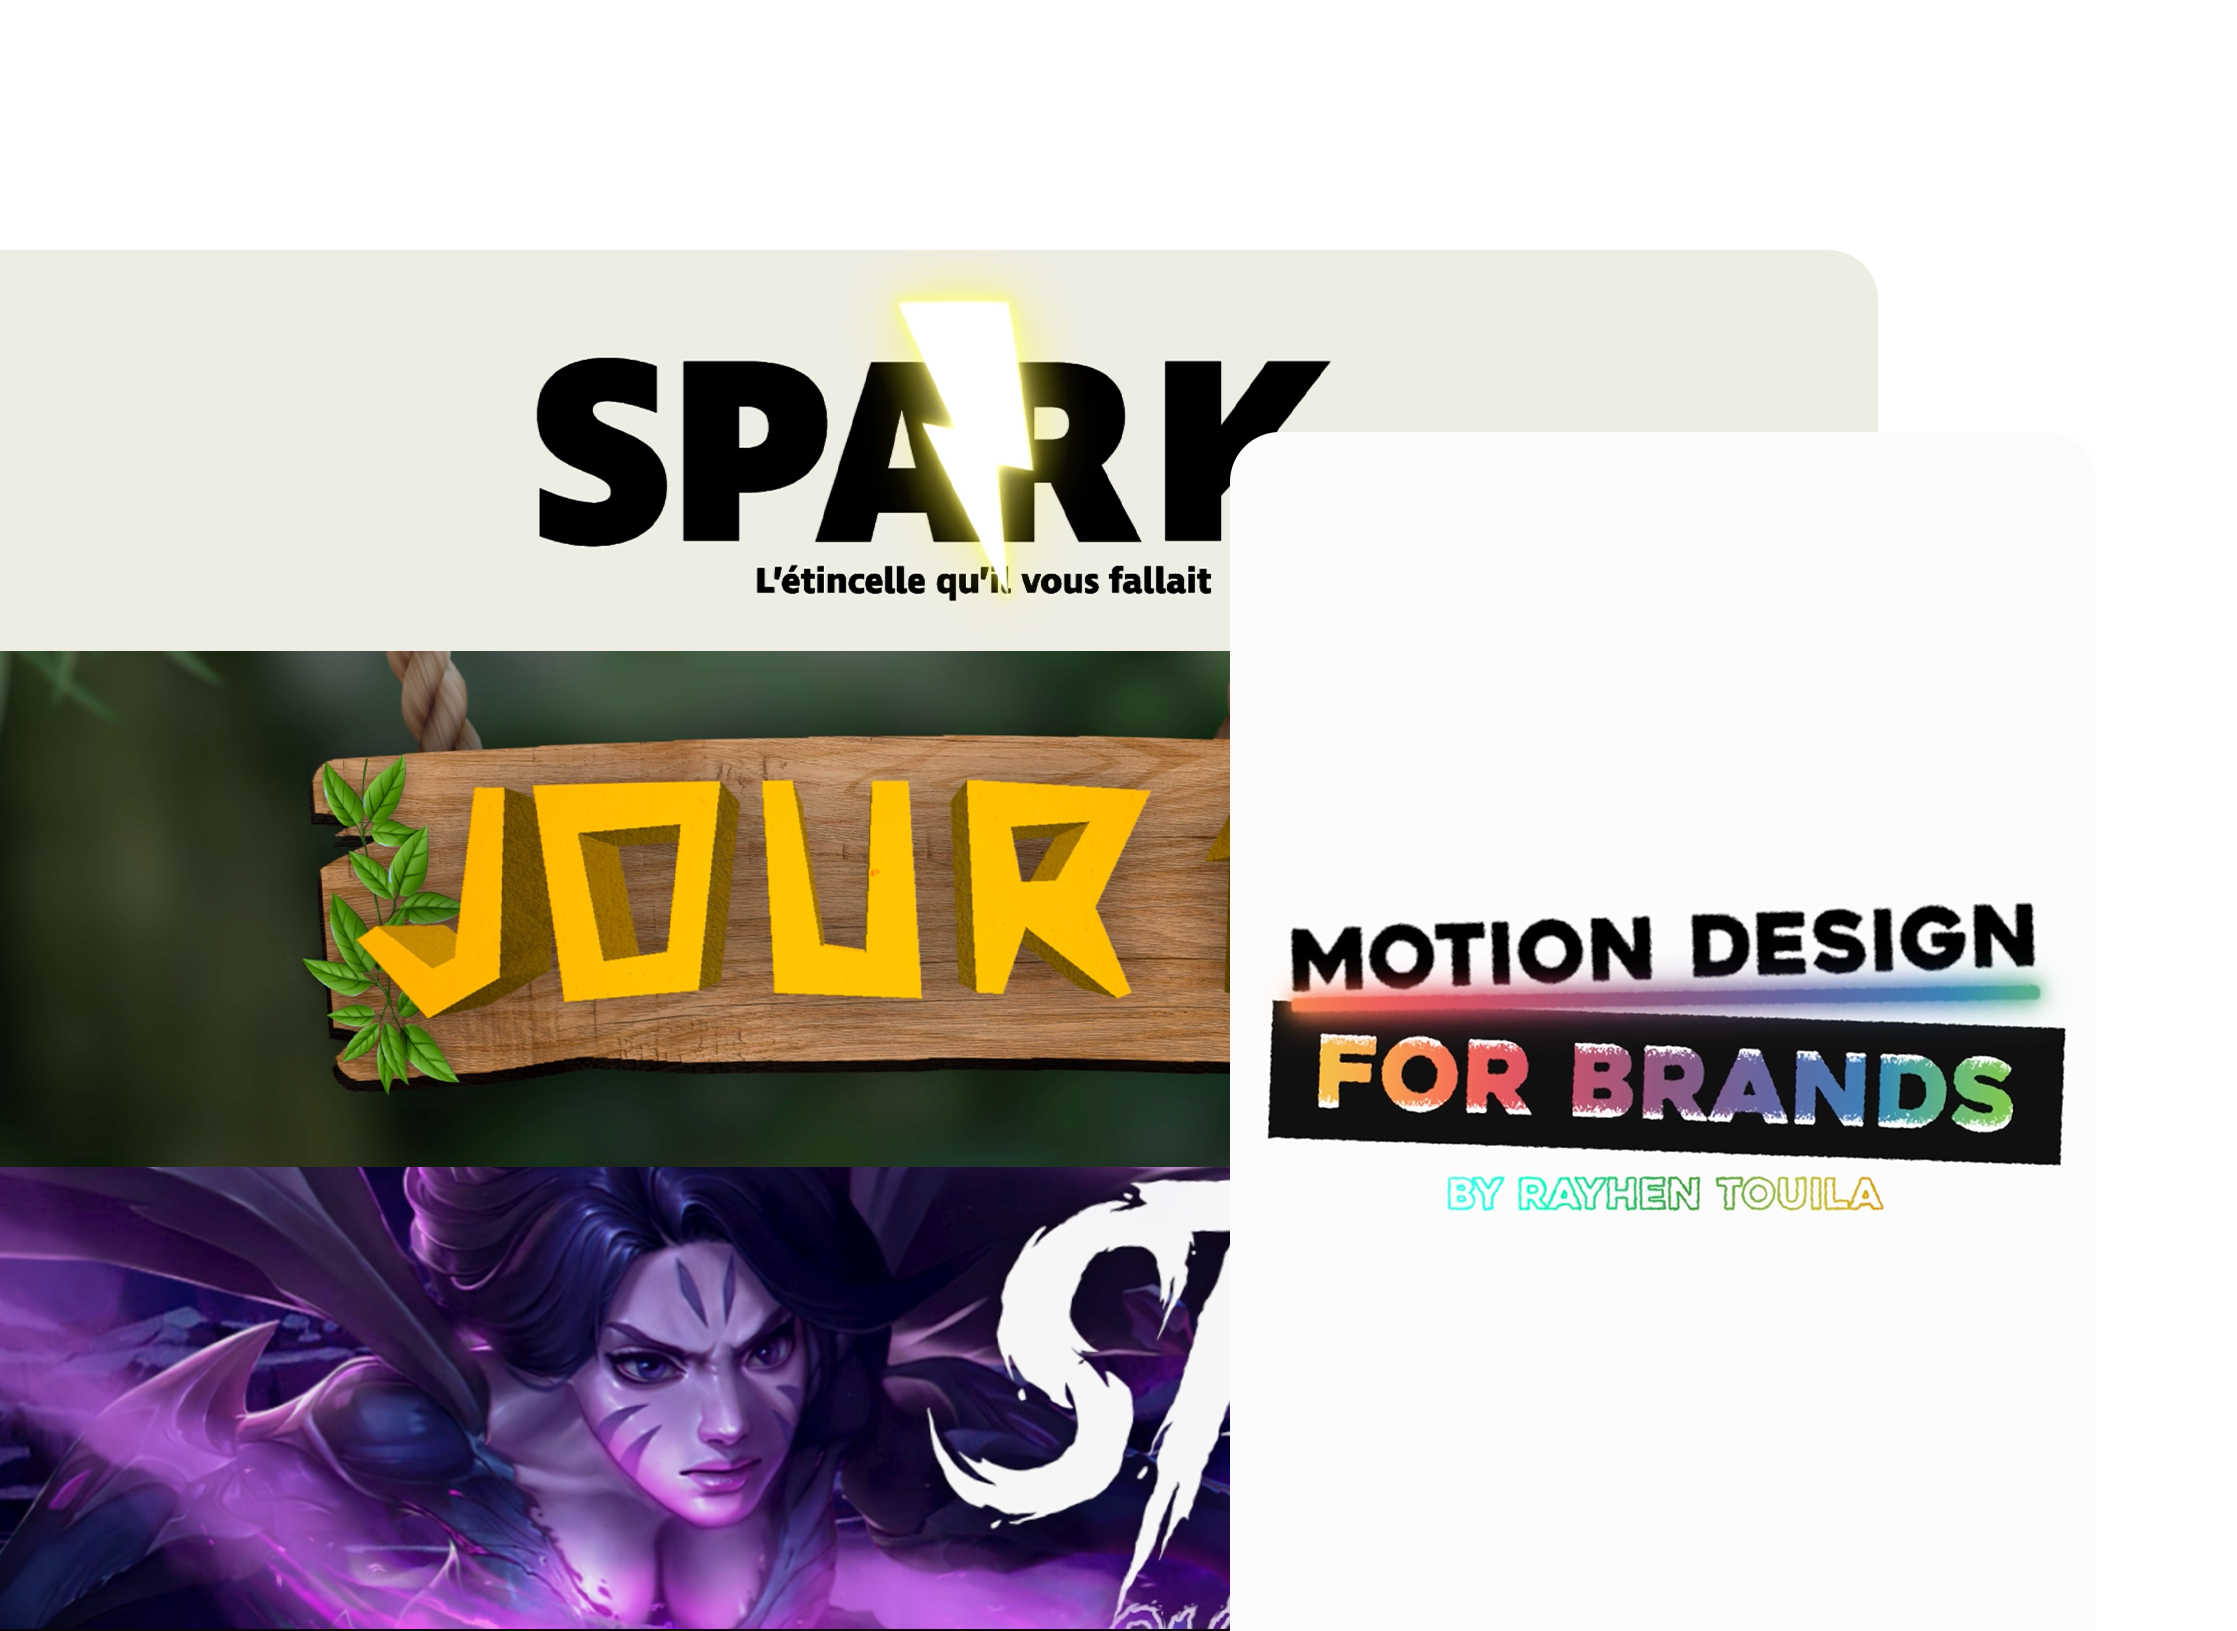
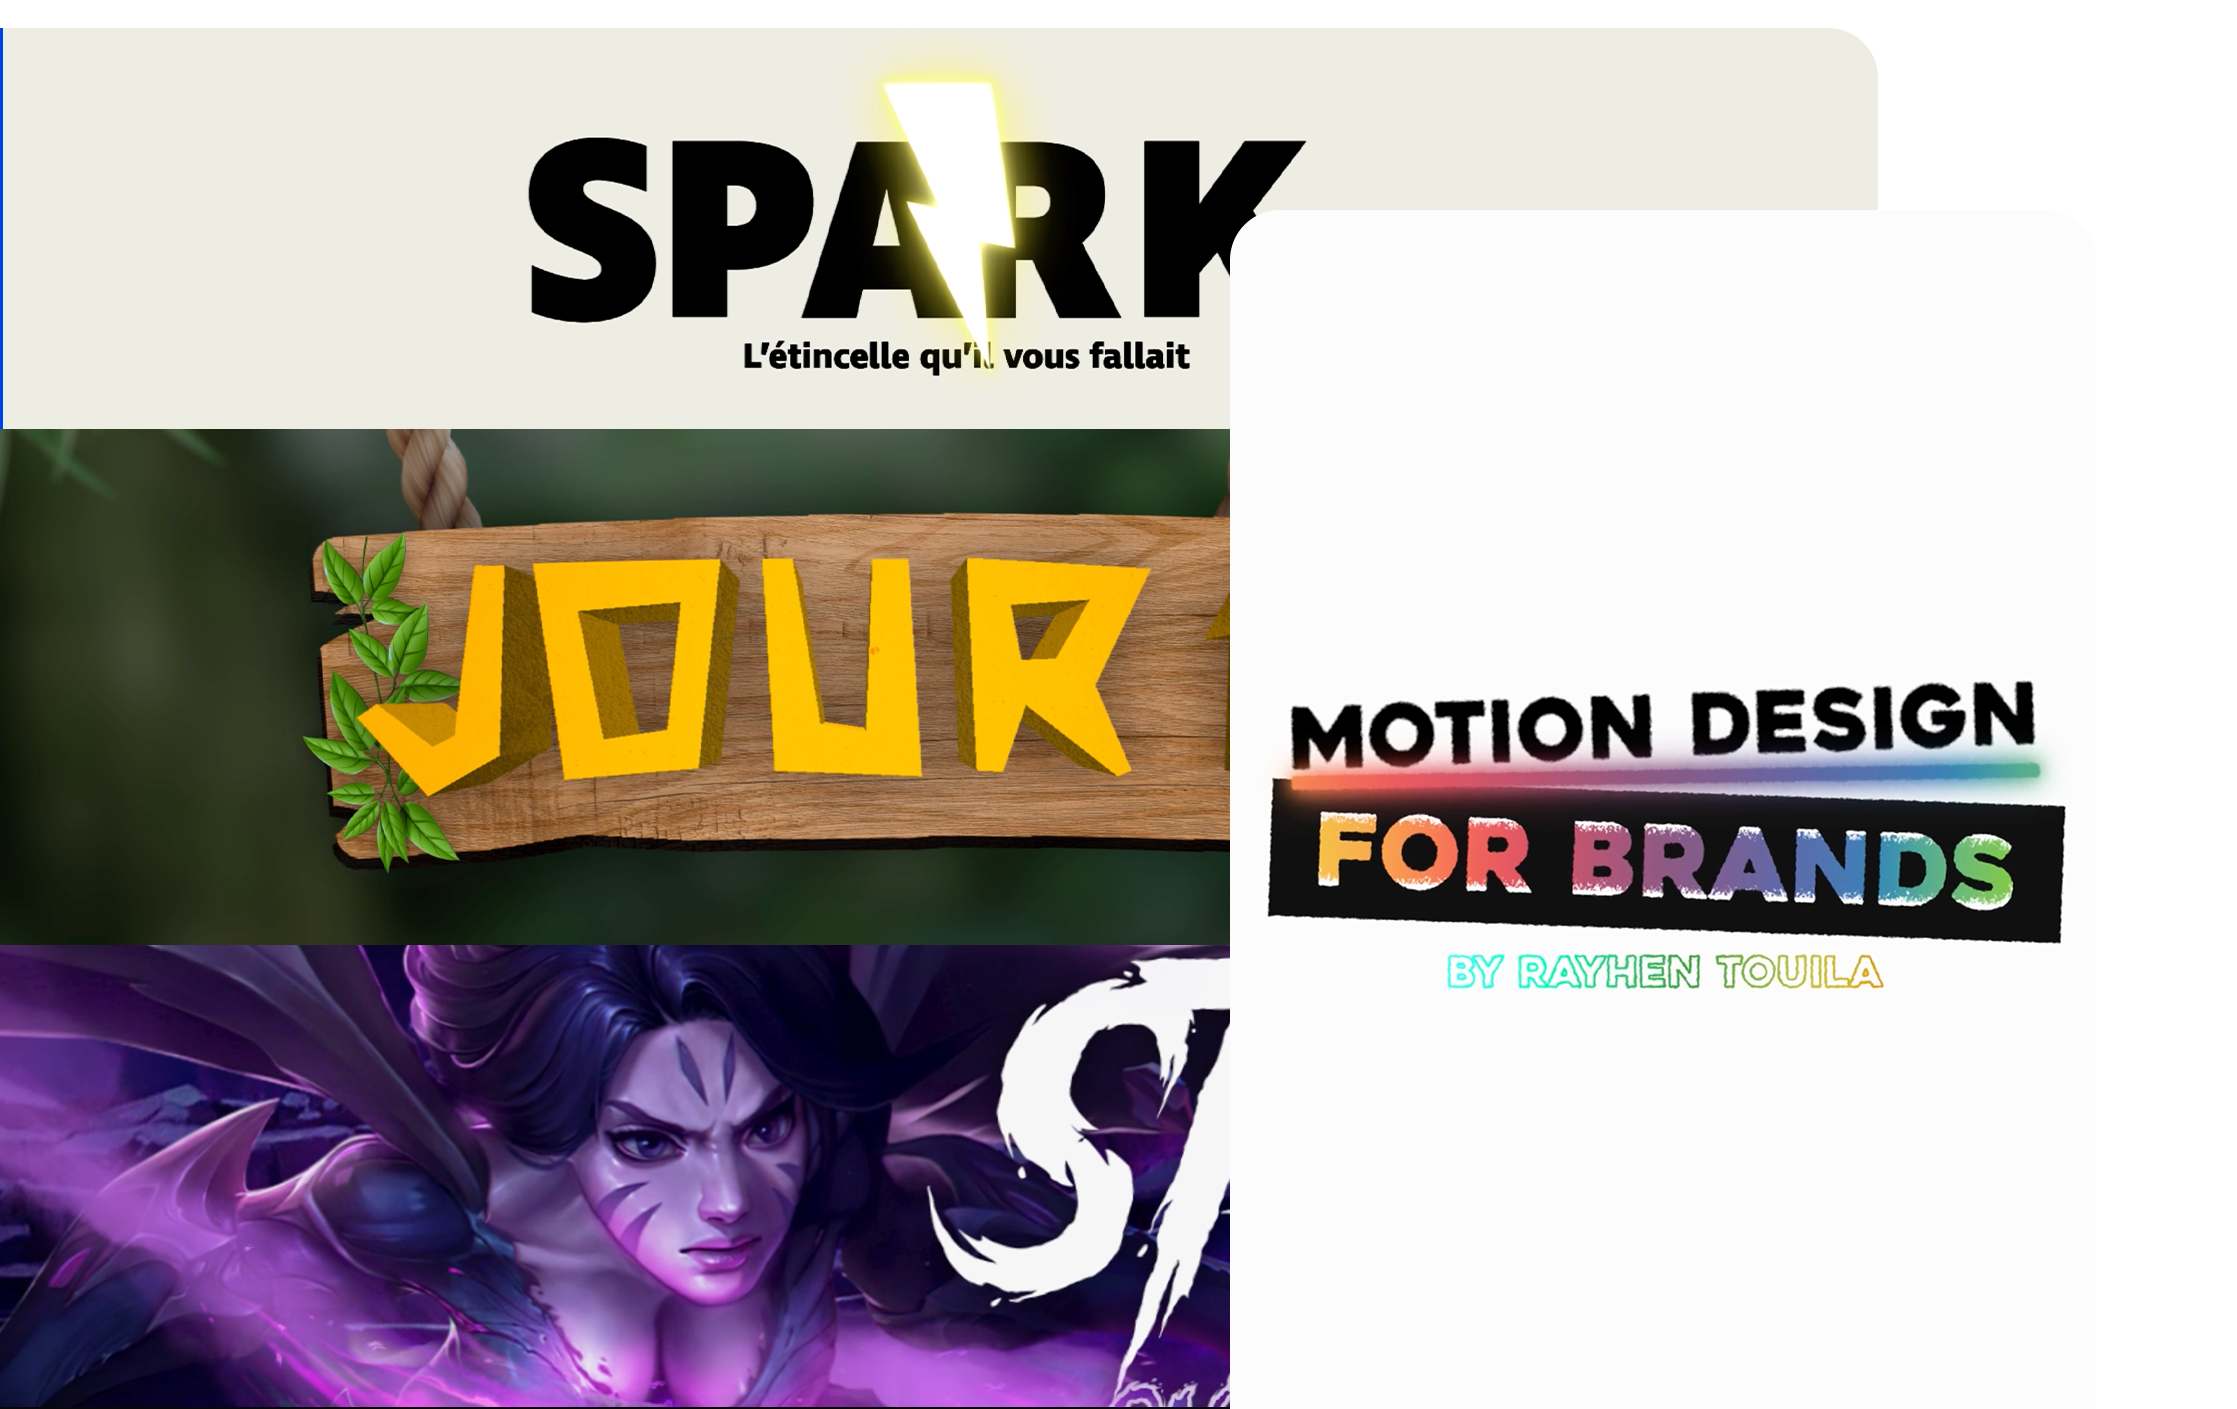
mdfb final

diff --git a/app/work-section/projectDetails.ts b/app/work-section/projectDetails.ts
@@ -11,26 +11,6 @@ export type ProjectProps = {
 export const devProjects = [
   {
     id: 0,
-    name: "Overlay Twitch",
-    description:
-      "Les overlays Twitch personnalisent chaque diffusion en direct, agissant comme une signature visuelle distinctive. En superposant des éléments graphiques, ils vont au-delà de l'esthétique pour offrir une expérience immersive, affichant des données essentielles telles que les abonnés, les donateurs et des animations pour captiver les spectateurs.",
-    technologies: ["Photoshop", "After Effect",],
-    github: "https://www.behance.net/gallery/185989117/Twitch-Overlay?",
-    image: require(".//../../Public/projects/flixify.png"),
-    available: true,
-  },
-  {
-    id: 1,
-    name: "Ti'dej",
-    description:
-      "J'ai conçu un site web pour un restaurant de petit déjeuner, orienté exclusivement vers le Click & Collect et la livraison. Sans contraintes particulières, j'ai laissé libre cours à ma créativité pour offrir une expérience utilisateur optimale.",
-    technologies: ["Photoshop", "Figma"],
-    github: "https://www.behance.net/gallery/158366939/Webdesign-Ptit-dej",
-    image: require(".//../../Public/projects/Tidej.png"),
-    available: true,
-  },
-  {
-    id: 2,
     name: "Cicadas Gaming",
     description:
       "Cicadas Gaming, leader de l'esport en région PACA, se distingue par sa convivialité et son ambition. Cette organisation s'engage à propulser la scène esportive locale vers le niveau mondial.",
@@ -40,7 +20,7 @@ export const devProjects = [
     available: true,
   },
   {
-    id: 3,
+    id: 1,
     name: "Motion Design For Brands",
     description:
       "Retrouvez un condensé de la plupart de mes projets réalisés sur After Effects : des projets personnels, scolaires, commerciaux, tout y est. N'hésitez pas à me donner votre avis, j'espère que cela vous plaira !",
@@ -49,7 +29,26 @@ export const devProjects = [
     image: require(".//../../Public/projects/mdfb.png"),
     available: true,
   },
-  // {
+  {
+    id: 2,
+    name: "Overlay Twitch",
+    description:
+      "Les overlays Twitch personnalisent chaque diffusion en direct, agissant comme une signature visuelle distinctive. En superposant des éléments graphiques, ils vont au-delà de l'esthétique pour offrir une expérience immersive, affichant des données essentielles telles que les abonnés, les donateurs et des animations pour captiver les spectateurs.",
+    technologies: ["Photoshop", "After Effect",],
+    github: "https://www.behance.net/gallery/185989117/Twitch-Overlay",
+    image: require(".//../../Public/projects/flixify.png"),
+    available: true,
+  },
+  {
+    id: 3,
+    name: "Ti'dej",
+    description:
+      "J'ai conçu un site web pour un restaurant de petit déjeuner, orienté exclusivement vers le Click & Collect et la livraison. Sans contraintes particulières, j'ai laissé libre cours à ma créativité pour offrir une expérience utilisateur optimale.",
+    technologies: ["Photoshop", "Figma"],
+    github: "https://www.behance.net/gallery/158366939/Webdesign-Ptit-dej",
+    image: require(".//../../Public/projects/Tidej.png"),
+    available: true,
+  },
   //   id: 4,
   //   name: "Carpooling Service",
   //   description:
